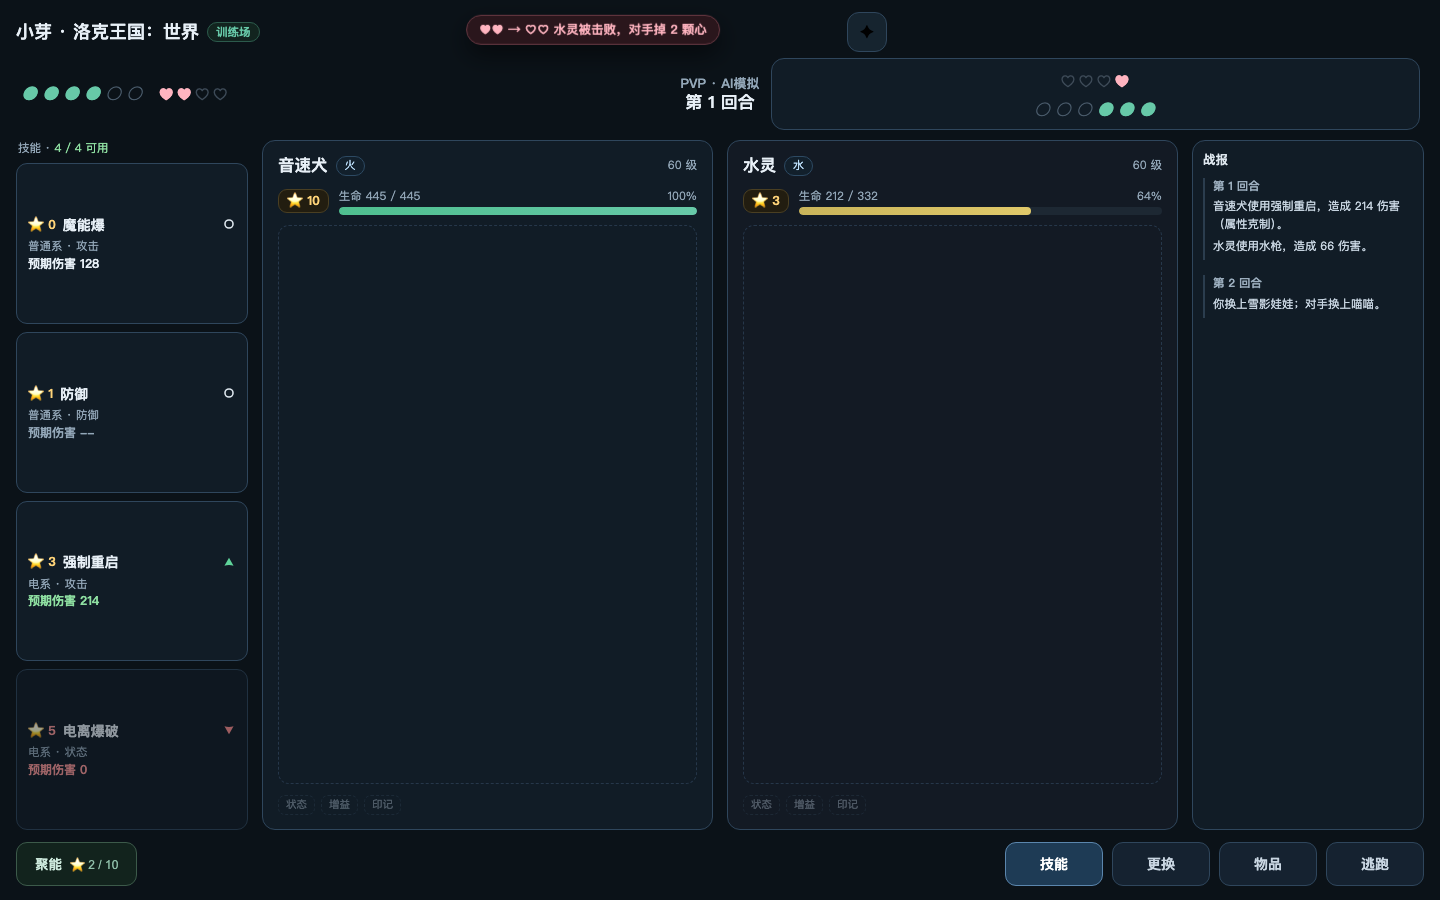
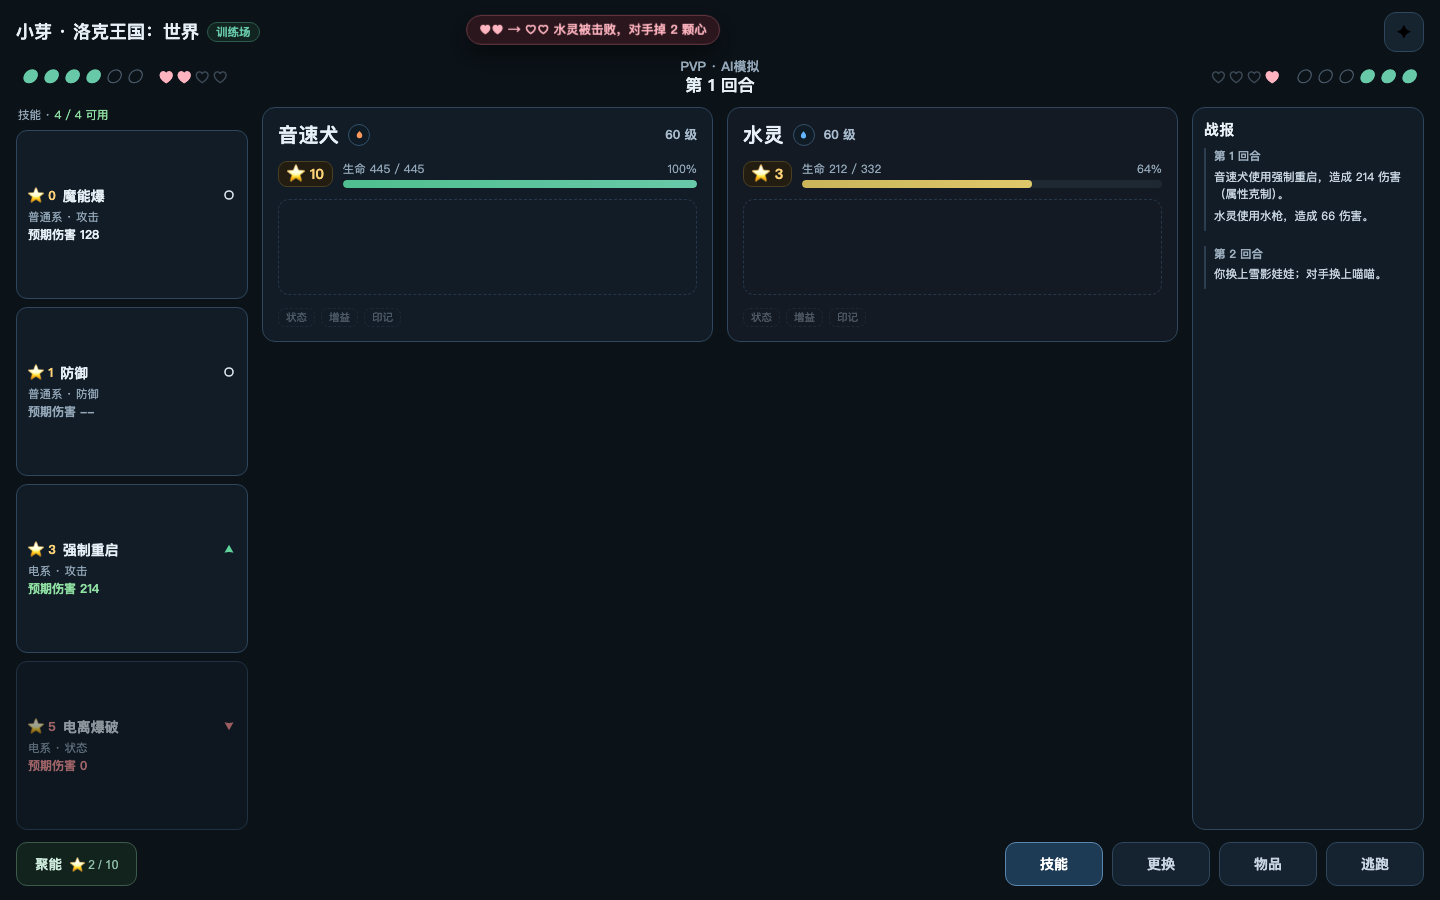
fix(mockup): 第五版 —— 修掉类名撞车造成的「对手框」、左右两组真垂直居中、战报与左列等宽、精灵卡镜像对称 + 属性符号可点变汉字
人类 2026-09-22 反馈（第三批修正）：
- 对手那侧仍有个框而且上下不居中 → **根因是 CSS 类名撞车**：战报列写的 .right 规则命中了对手的
  <div class="side right">（边框+底色+内边距全被套上）。改名为 .logcol 后消失；
- 小芽按钮跑到中间 → header 网格第三列默认靠左，加 justify-self:end；
- 战报宽度没和左列一致 → 探针实测左列 232px / 战报 232px（此前量的 649 是探针选择器写着旧类名）；
- 左右两组垂直中心：探针实测 cy 都是 77（差 0）；
- 精灵卡改成**镜像对称**（左：名字·属性·…·60级；右：60级·属性·名字；第二行同理镜像）；
- 属性改成**符号**（圆底 + 火/水字形），**点一下变汉字、3 秒后自动变回**（新增 element 帧对照）；
- 上面信息放大显眼（名字 20px、⭐14px），下面预留条缩到 96px 固定高，卡片改为按内容收缩靠上；
- 移动端横向溢出修掉（390 视口下文档宽 390）。

diff --git a/docs/roco/mockups/battle-v3d.html b/docs/roco/mockups/battle-v3d.html
@@ -17,12 +17,12 @@ header{display:grid;grid-template-columns:1fr auto 1fr;align-items:center;height
 .brand small{font-weight:600;font-size:11.5px;color:var(--brand);border:1px solid #2c5a4c;
  background:#12241f;border-radius:999px;padding:1px 8px;margin-left:8px;vertical-align:2px}
 .spacer{flex:1}
-.xiaoya{width:40px;height:40px;border-radius:12px;border:1px solid var(--line2);background:#16242f;
+.xiaoya{justify-self:end;width:40px;height:40px;border-radius:12px;border:1px solid var(--line2);background:#16242f;
  display:grid;place-items:center;font-size:18px;cursor:pointer}
 /* 顶部信息栏 */
 .topbar{display:grid;grid-template-columns:1fr auto 1fr;align-items:center;justify-items:stretch;gap:12px;flex:none;
  margin:6px 0 10px;padding:0 4px;position:relative}
-.side{display:flex;align-items:center;gap:12px;height:100%}
+.side{display:flex;align-items:center;gap:12px;align-self:center;min-height:34px}
 .side.right{justify-content:flex-end;text-align:right}
 .dots{letter-spacing:3px;font-size:18px;line-height:1;font-style:normal;font-variant-numeric:normal}
 .dots .alive{color:var(--brand)} .dots .down{color:#4a5b6b}
@@ -48,37 +48,45 @@ main{display:grid;grid-template-columns:232px 1fr 232px;gap:14px;flex:1;min-heig
 .slot.grey{opacity:.6}
 .lefthint{font-size:11.5px;color:var(--dim);margin:0 2px 7px}
 /* 属性克制关系：绿色向上圆角三角=克制；红色向下=被克制；白圈=无影响 */
+.el{width:22px;height:22px;border-radius:50%;display:grid;place-items:center;cursor:pointer;
+ border:1px solid #35506a;background:#0f1c26;font-size:11px;font-weight:700;color:#cfe6ff;user-select:none}
+.el.show-name{width:auto;border-radius:8px;padding:0 8px;font-size:12.5px}
 .rel{width:14px;height:14px;flex:none;display:inline-block;vertical-align:-2px}
 .rel path,.rel circle{stroke-linejoin:round;stroke-linecap:round}
 /* 中间两张卡 */
-.stage{display:grid;grid-template-columns:1fr 1fr;gap:14px;height:100%;min-height:0;align-items:stretch}
+.stage{display:grid;grid-template-columns:1fr 1fr;gap:14px;height:100%;min-height:0;align-items:start}
 .fighter{border:1px solid var(--line2);border-radius:13px;background:var(--panel);padding:13px 15px;
- display:flex;flex-direction:column;gap:10px;height:100%;min-height:0}
+ display:flex;flex-direction:column;gap:11px;height:auto}
 .fighter.foe{background:#131a24}
-.f-top{display:flex;align-items:center;gap:8px}
-.f-name{font-size:16.5px;font-weight:700}
+.f-top{display:flex;align-items:center;gap:9px}
+.f-mid.mirror{flex-direction:row-reverse}
+.fighter.foe .f-top{flex-direction:row-reverse}
+.fighter.foe .f-top .f-lv{margin-left:0;margin-right:auto}
+.fighter.foe .hp .num{flex-direction:row-reverse}
+.f-name{font-size:20px;font-weight:750;letter-spacing:.4px}
 .chip{font-size:11px;padding:1px 8px;border-radius:999px;border:1px solid #2d4a63;background:#12202c;color:#bfe3ff}
-.f-lv{font-size:11.5px;color:var(--dim);margin-left:auto}
+.f-lv{font-size:12.5px;color:#a9bccd;margin-left:auto;font-weight:600}
 .f-mid{display:flex;align-items:center;gap:10px}
-.f-star{font-size:12.5px;font-weight:700;color:#ffd479;border:1px solid #4a3f22;background:#221d10;
+.f-star{font-size:14px;font-weight:750;color:#ffd479;border:1px solid #4a3f22;background:#221d10;
  border-radius:9px;padding:2px 8px;white-space:nowrap}
 .hp{flex:1;min-width:0}
 .hp .num{display:flex;justify-content:space-between;font-size:11.5px;color:var(--dim);margin-bottom:3px}
 .hp .bar{height:8px;border-radius:999px;background:#1d2833;overflow:hidden}
 .hp .fill{height:100%;border-radius:999px;background:linear-gradient(90deg,#4fbf8f,#67c9a8)}
 .hp .fill.mid{background:linear-gradient(90deg,#c9b45a,#e0c96a)}
-.free{flex:1;border:1px dashed #26374a;border-radius:11px;min-height:56px}
+.free{border:1px dashed #26374a;border-radius:11px;height:96px;flex:none}
+.grow{flex:1}
 .buffs{display:flex;gap:6px;align-items:center;min-height:22px}
 .buffs .b{font-size:10.5px;color:#cfe0f0;border:1px dashed #33485c;border-radius:7px;padding:1px 7px}
 .buffs .b.ghost{opacity:.32}
 /* 右侧预留（底边与主区对齐；字号小一号） */
-.right{border:1px solid var(--line2);border-radius:13px;background:var(--panel);display:flex;
- flex-direction:column;gap:7px;padding:10px;min-height:0;width:100%}
+.logcol{border:1px solid var(--line2);border-radius:13px;background:var(--panel);display:flex;
+ flex-direction:column;gap:8px;padding:11px;min-height:0;width:100%}
+.logcol h4{margin:0;font-size:15px;font-weight:700;color:#eaf2f8;letter-spacing:.3px}
 .log-turn{border-left:2px solid #2b3d4e;padding-left:8px;margin-bottom:9px}
 .log-turn b{display:block;font-size:11.5px;color:#9caebe;margin-bottom:4px}
 .log-turn p{margin:0 0 5px;font-size:11.5px;color:#c9d6e2;line-height:1.5}
-.right h4{margin:0 0 2px;font-size:12.5px;color:#dfe8ef;font-weight:650}
-.right .scroll{overflow:auto;display:flex;flex-direction:column;gap:6px;min-height:0}
+.logcol .scroll{overflow:auto;display:flex;flex-direction:column;gap:6px;min-height:0}
 .logbtn{height:36px;padding:0 13px;border-radius:10px;border:1px solid var(--line2);background:#141f2a;color:#b9c7d4;font-size:12.5px}
 /* 底部 */
 footer{display:grid;grid-template-columns:auto 1fr auto;align-items:center;gap:14px;flex:none;margin-top:12px}
@@ -126,10 +134,14 @@ footer{display:grid;grid-template-columns:auto 1fr auto;align-items:center;gap:1
  78%{opacity:1}100%{opacity:0;transform:translate(-50%,-6px)}}
 .frame{display:none} .frame.on{display:block}
 @media (max-width:760px){
+ .f-name{font-size:17px}.f-lv{font-size:11.5px}
+ .topbar{grid-template-columns:1fr;justify-items:center;gap:4px}
+ .side{justify-content:center}
+ .side.right{justify-content:center}
  body{padding:10px}.wrap{height:auto}
  main{grid-template-columns:1fr;gap:11px}
  .stage{grid-template-columns:1fr}
- .right{display:none}
+ .logcol{display:none}
  footer{grid-template-columns:1fr;gap:9px}
  .tabs{justify-content:space-between}.tab{flex:1;min-width:0}
  .skills .slot{min-height:58px}
@@ -159,7 +171,9 @@ footer{display:grid;grid-template-columns:auto 1fr auto;align-items:center;gap:1
 
   <div class="stage">
     <div class="fighter">
-      <div class="f-top"><span class="f-name">音速犬</span><span class="chip">火</span><span class="f-lv">60 级</span></div>
+      <div class="f-top"><span class="f-name">音速犬</span>
+        <span class="el" data-el="火" title="点一下看系别名字"></span>
+        <span class="f-lv">60 级</span></div>
       <div class="f-mid"><span class="f-star">⭐ 10</span>
         <div class="hp"><div class="num"><span>生命 445 / 445</span><span>100%</span></div>
           <div class="bar"><div class="fill" style="width:100%"></div></div></div></div>
@@ -167,16 +181,19 @@ footer{display:grid;grid-template-columns:auto 1fr auto;align-items:center;gap:1
       <div class="buffs"><span class="b ghost">状态</span><span class="b ghost">增益</span><span class="b ghost">印记</span></div>
     </div>
     <div class="fighter foe">
-      <div class="f-top"><span class="f-name">水灵</span><span class="chip">水</span><span class="f-lv">60 级</span></div>
-      <div class="f-mid"><span class="f-star">⭐ 3</span>
-        <div class="hp"><div class="num"><span>生命 212 / 332</span><span>64%</span></div>
-          <div class="bar"><div class="fill mid" style="width:64%"></div></div></div></div>
+      <div class="f-top"><span class="f-lv">60 级</span>
+        <span class="el" data-el="水" title="点一下看系别名字"></span>
+        <span class="f-name">水灵</span></div>
+      <div class="f-mid mirror">
+        <div class="hp"><div class="num"><span>64%</span><span>生命 212 / 332</span></div>
+          <div class="bar"><div class="fill mid" style="width:64%"></div></div></div>
+        <span class="f-star">⭐ 3</span></div>
       <div class="free"></div>
       <div class="buffs"><span class="b ghost">状态</span><span class="b ghost">增益</span><span class="b ghost">印记</span></div>
     </div>
   </div>
 
-  <div class="right">
+  <div class="logcol">
     <h4>战报</h4>
     <div class="scroll">
       <div class="log-turn"><b>第 1 回合</b>
@@ -241,6 +258,11 @@ const SWITCH = [
   ['⭐ 3','仪式巨像','地系 · 防御','--','none','铠甲虫 · 445/445'],
 ];
 // 属性克制关系：绿色向上圆角三角=克制；红色向下=被克制；白圈=无影响（技能同样适用）
+// 属性符号：用圆底 + 字形（不写汉字，点一下才显示名字，几秒后自动变回）
+const EL_ICON = {
+  '火': '<svg viewBox="0 0 16 16" width="13" height="13"><path d="M8 2.4c1.9 2.2 3.4 3.5 3.4 5.6A3.4 3.4 0 0 1 8 11.4 3.4 3.4 0 0 1 4.6 8c0-2.1 1.5-3.4 3.4-5.6Z" fill="#ff9a5c"/></svg>',
+  '水': '<svg viewBox="0 0 16 16" width="13" height="13"><path d="M8 2.8c2 2.4 3.2 3.9 3.2 5.6A3.2 3.2 0 0 1 8 11.6 3.2 3.2 0 0 1 4.8 8.4c0-1.7 1.2-3.2 3.2-5.6Z" fill="#63b6ff"/></svg>',
+};
 const REL = {
   up: '<svg class="rel" viewBox="0 0 16 16"><path d="M8 3.2 L13.2 12.4 Q8 10.6 2.8 12.4 Z" fill="#5fd39a"/></svg>',
   down: '<svg class="rel" viewBox="0 0 16 16"><path d="M8 12.8 L2.8 3.6 Q8 5.4 13.2 3.6 Z" fill="#ff8f8f"/></svg>',
@@ -283,6 +305,19 @@ if (frame === 'items') {
     ${n === '愿力强化' ? `<div class="meta" style="color:#e2b48c">${YUANLI_NOTE}</div>` : ''}</div>`).join('');
   document.querySelectorAll('.tab').forEach((b) => b.classList.toggle('on', b.dataset.tab === 'item'));
 }
+// 属性符号注入 + 点击切换成汉字（3 秒后自动变回）
+document.querySelectorAll('.el').forEach((el) => {
+  const name = el.dataset.el;
+  el.innerHTML = EL_ICON[name] || name;
+  el.addEventListener('click', () => {
+    el.classList.add('show-name');
+    el.textContent = name + '系';
+    setTimeout(() => { el.classList.remove('show-name'); el.innerHTML = EL_ICON[name] || name; }, 3000);
+  });
+});
+if (frame === 'element') document.querySelectorAll('.el').forEach((el) => {
+  el.classList.add('show-name'); el.textContent = el.dataset.el + '系';
+});
 if (frame === 'heart') document.querySelectorAll('.hearts').forEach((el) => el.classList.remove('hidden'));
 if (frame === 'heart') {
   const pop = document.createElement('div');
